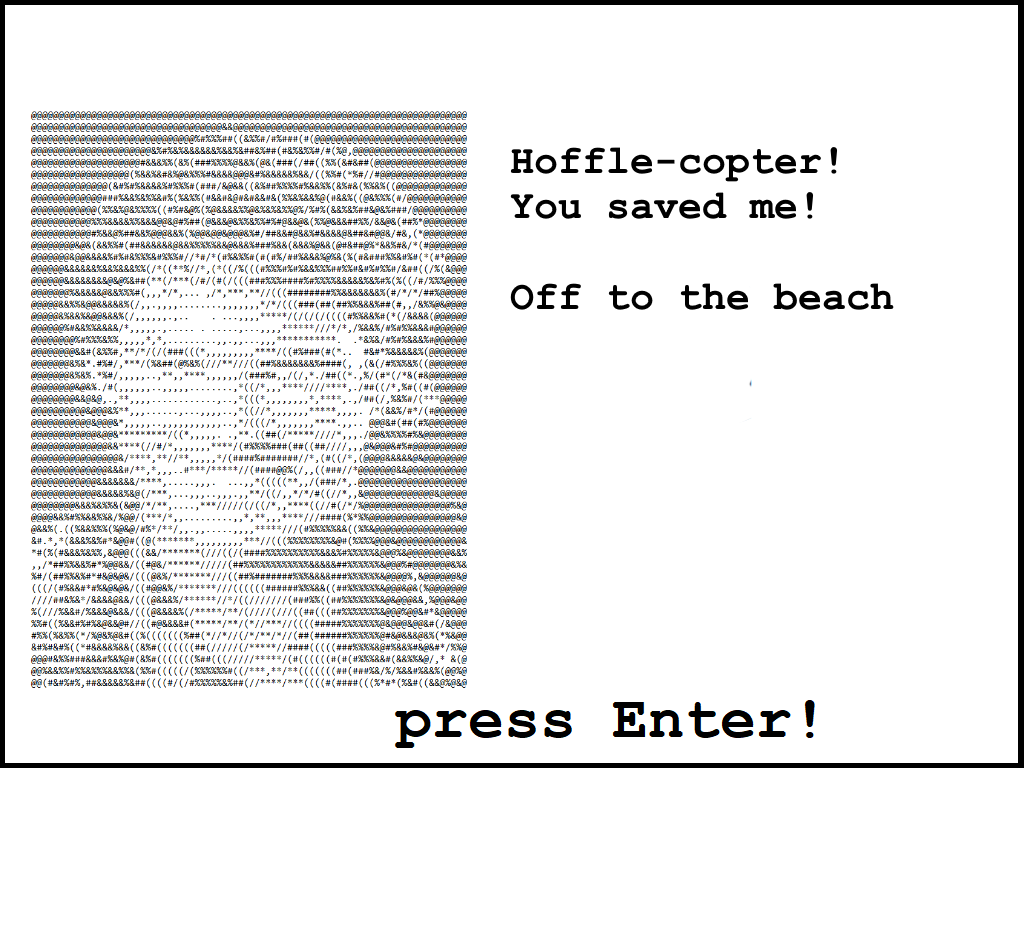
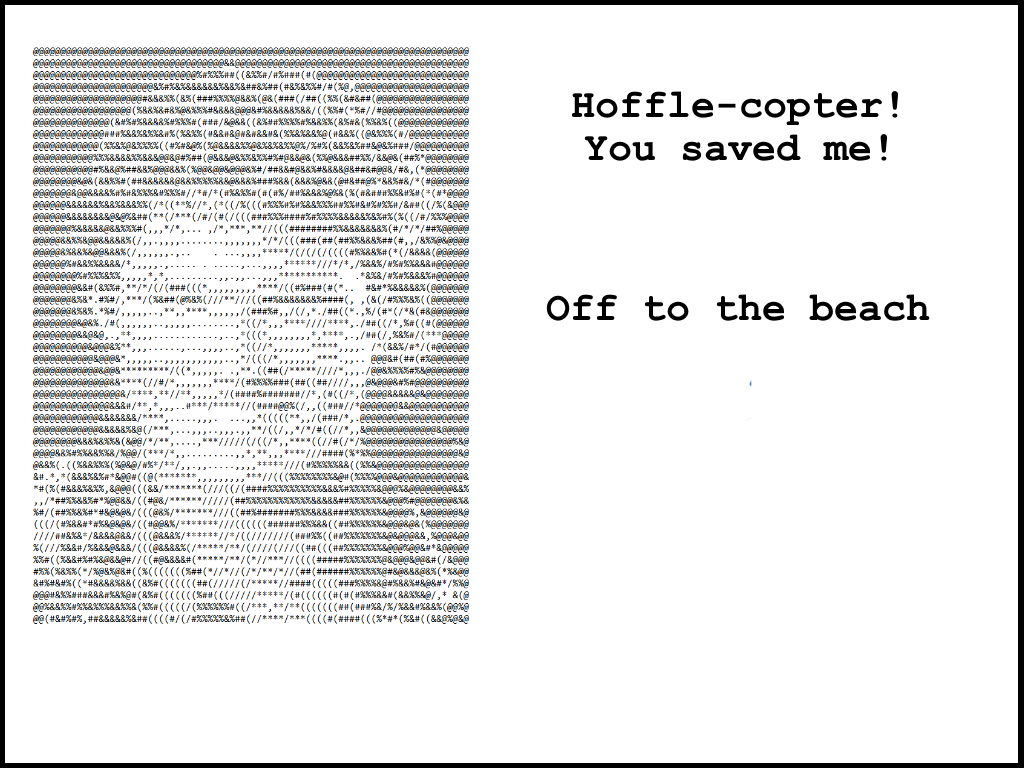
various bug fixes

diff --git a/assets/js/main.js b/assets/js/main.js
@@ -35,11 +35,60 @@ loadSprite("heli", "./assets/sprites/heli.png", {
 
 /* static UI elements */
 loadSprite("titlescreen", "./assets/ui/titlescreen.png");
-loadSprite("introImage", "./assets/ui/introimage.png");
+loadSprite("explainImage", "./assets/ui/explain.png");
+loadSprite("introImage", "./assets/ui/intro.png");
 loadSprite("endingImage", "./assets/ui/endingimage.png");
 loadSprite("gameoverimage", "./assets/ui/gameoverimage.png");
 loadSprite("levelComplete", "./assets/ui/levelcomplete.png");
 loadSprite("starrySky", "./assets/scenery/starry-sky.png");
+
+/* flashing press enter text used on dialogue screens */
+loadSprite("pressEnter", "./assets/ui/pressEnter.png", {
+    sliceY: 2,
+    // Define animations
+    anims: {
+        "flash": {
+            // Starts from frame 0, ends at frame 1 then loops
+            from: 0,
+            to: 1,
+            // Frame per second
+            speed: 4,
+            loop: true
+        },
+    }
+});
+
+/* big copter sprite used on titlescreen */
+loadSprite("bigCopter", "./assets/sprites/bigCopter.png", {
+    sliceX: 2,
+    // Define animations
+    anims: {
+        "fly": {
+            // Starts from frame 0, ends at frame 1 then loops
+            from: 0,
+            to: 1,
+            // Frame per second
+            speed: 8,
+            loop: true
+        },
+    }
+});
+
+/* titlescreen text */
+loadSprite("titleText", "./assets/ui/titletext.png", {
+    sliceY: 2,
+    // Define animations
+    anims: {
+        "rattle": {
+            // Starts from frame 0, ends at frame 1 then loops
+            from: 0,
+            to: 1,
+            // Frame per second
+            speed: 6,
+            loop: true
+        },
+    }
+});
 
 /* Load game music */
 loadSound("titleScreenMusic", "./assets/music/titlescreen.mp3");
@@ -158,7 +207,7 @@ scene("gameplay", async (levelName) => {
     });
 
     // check collision between heli and copper
-    
+
     onCollide("copper", "heli", (copper) => {
         play("coin");
         destroy(copper);
@@ -205,6 +254,7 @@ scene("gameplay", async (levelName) => {
             play("explosion2");
             boomColl.add(new boom(boss.pos.x, boss.pos.y))
             destroy(boss)
+            music.stop();
             endingStart()
         })
     })
@@ -251,7 +301,7 @@ scene("gameplay", async (levelName) => {
 
     // If beach level, load level 3 music
     if (levelName['levelName'] === 'beach') {
-        
+
         music = play("level3Music", {
             volume: 0.50,
             loop: true
@@ -260,7 +310,7 @@ scene("gameplay", async (levelName) => {
 
     // If beach level, load level 3 music
     if (levelName['levelName'] === 'boss') {
-        
+
         music = play("bossMusic", {
             volume: 0.50,
             loop: true
@@ -500,6 +550,11 @@ const endingStart = () => {
     })
 }
 
+const explainStart = () => {
+    go("explain", {
+    })
+}
+
 const gameOverStart = () => {
     go("gameOver", {
     })
@@ -514,11 +569,31 @@ const levelCompleteStart = (levelName) => {
 
 scene("titleScreen", async () => {
 
-    const titleScreenImage = add([
-        sprite("titlescreen"),
-        pos(0, 0),
+    const titleText = add([
+        sprite("titleText"),
+        pos(140, 10),
     ]);
 
+    titleText.play("rattle");
+
+    const bigCopter = add([
+        sprite("bigCopter"),
+        pos(0, 230),
+    ]);
+
+    bigCopter.play("fly");
+
+    const pressEnter = add([
+        sprite("pressEnter"),
+        pos(530, 650),
+    ]);
+
+    //set up the game screen area
+    onKeyPress("f", () => {
+        fullscreen(!isFullscreen())
+    });
+
+    pressEnter.play("flash");
     music = play("titleScreenMusic", {
         volume: 0.50,
         loop: true
@@ -528,14 +603,63 @@ scene("titleScreen", async () => {
         music.stop();
         introStart();
     })
+
+    onUpdate(() => {
+        bigCopter.move(80, 0);
+
+        if (bigCopter.pos.x >= 1024) {
+            bigCopter.pos.x = -703;
+        }
+    });
+});
+
+scene("explain", async () => {
+
+    const explainScreenImage = add([
+        sprite("explainImage"),
+        pos(0, 0),
+    ]);
+
+    const pressEnter = add([
+        sprite("pressEnter"),
+        pos(570, 630),
+    ]);
+
+    pressEnter.play("flash");
+
+    //set up the game screen area
+    onKeyPress("f", () => {
+        fullscreen(!isFullscreen())
+    });
+
+    onKeyPress("enter", () => {
+        titleScreenStart();
+    })
 });
 
 scene("ending", async () => {
+
+    music = play("endingMusic", {
+        volume: 0.50,
+        loop: false
+    })
+
+    const pressEnter = add([
+        sprite("pressEnter"),
+        pos(570, 630),
+    ]);
+
+    pressEnter.play("flash");
 
     const endingScreen = add([
         sprite("endingImage"),
         pos(0, 0),
     ]);
+
+    //set up the game screen area
+    onKeyPress("f", () => {
+        fullscreen(!isFullscreen())
+    });
 
     onKeyPress("enter", () => {
         music.stop();
@@ -555,6 +679,11 @@ scene("gameOver", async () => {
         loop: false
     })
 
+    //set up the game screen area
+    onKeyPress("f", () => {
+        fullscreen(!isFullscreen())
+    });
+
     onKeyPress("enter", () => {
         music.stop();
         titleScreenStart();
@@ -568,10 +697,22 @@ scene("levelComplete", async (currentLevel) => {
         pos(0, 0),
     ]);
 
+    const pressEnter = add([
+        sprite("pressEnter"),
+        pos(570, 630),
+    ]);
+
+    pressEnter.play("flash");
+
     music = play("levelCompleteMusic", {
         volume: 0.50,
         loop: false
     })
+
+    //set up the game screen area
+    onKeyPress("f", () => {
+        fullscreen(!isFullscreen())
+    });
 
     onKeyPress("enter", () => {
 
@@ -607,12 +748,26 @@ scene("intro", async () => {
         loop: true
     })
 
+    const pressEnter = add([
+        sprite("pressEnter"),
+        pos(530, 650),
+    ]);
+
+    pressEnter.play("flash");
+
+    //set up the game screen area
+    onKeyPress("f", () => {
+        fullscreen(!isFullscreen())
+    });
+
     onKeyPress("enter", () => {
         music.stop();
         level1Start();
     })
 });
 
-/* On first load of the application, run the title screen */
+/* Give the game canvas focus so that the users input registers */
+k.canvas.focus()
 
-titleScreenStart();
+/* On first load of the application, display the controls to the player */
+explainStart();
